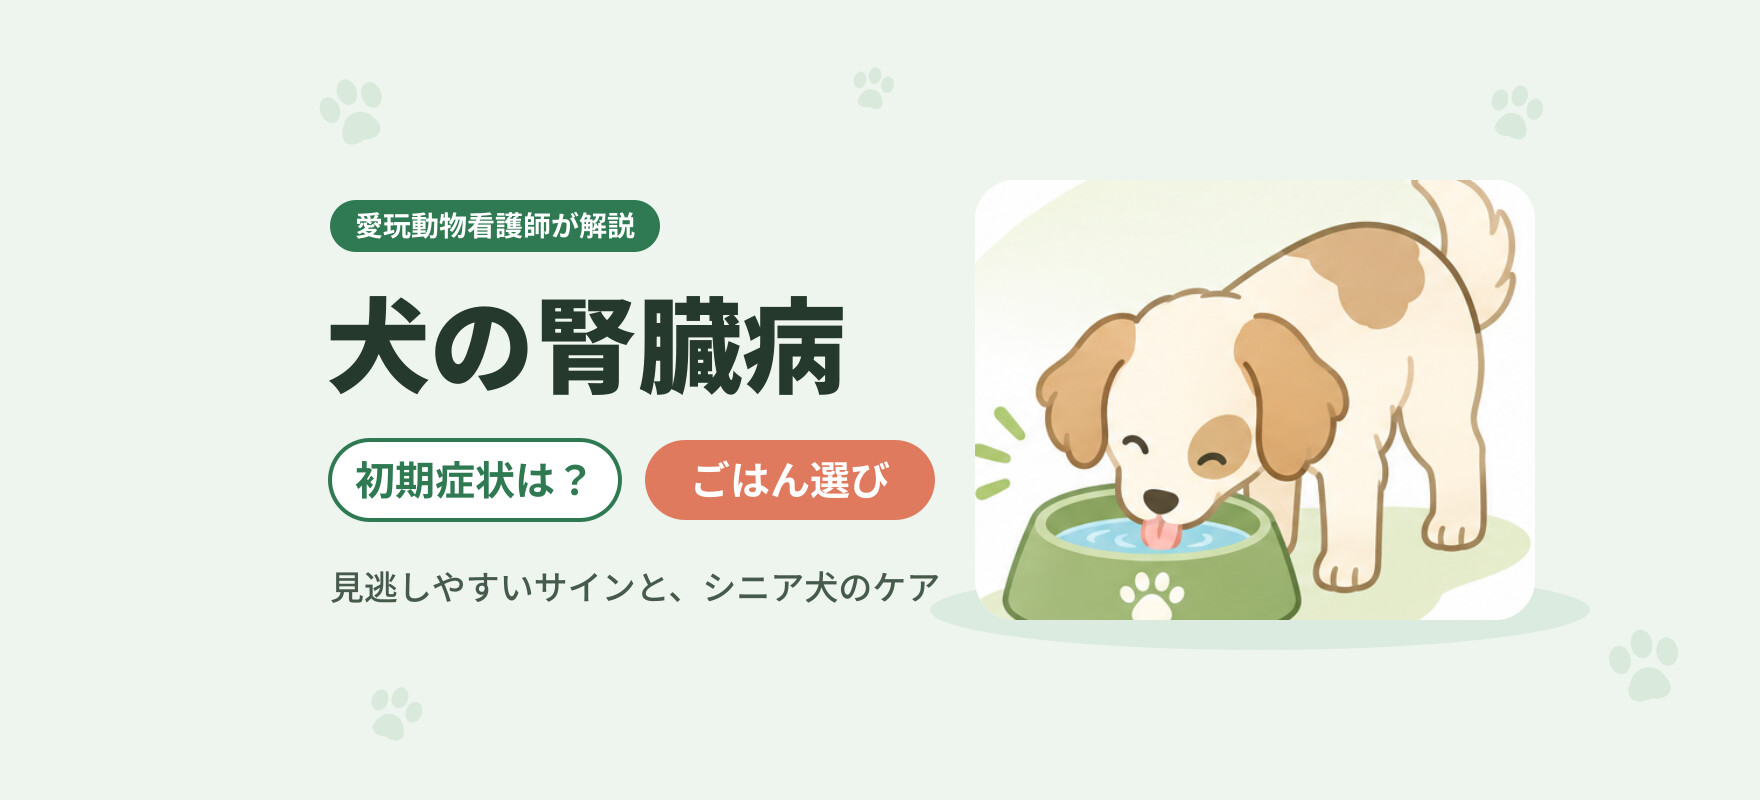
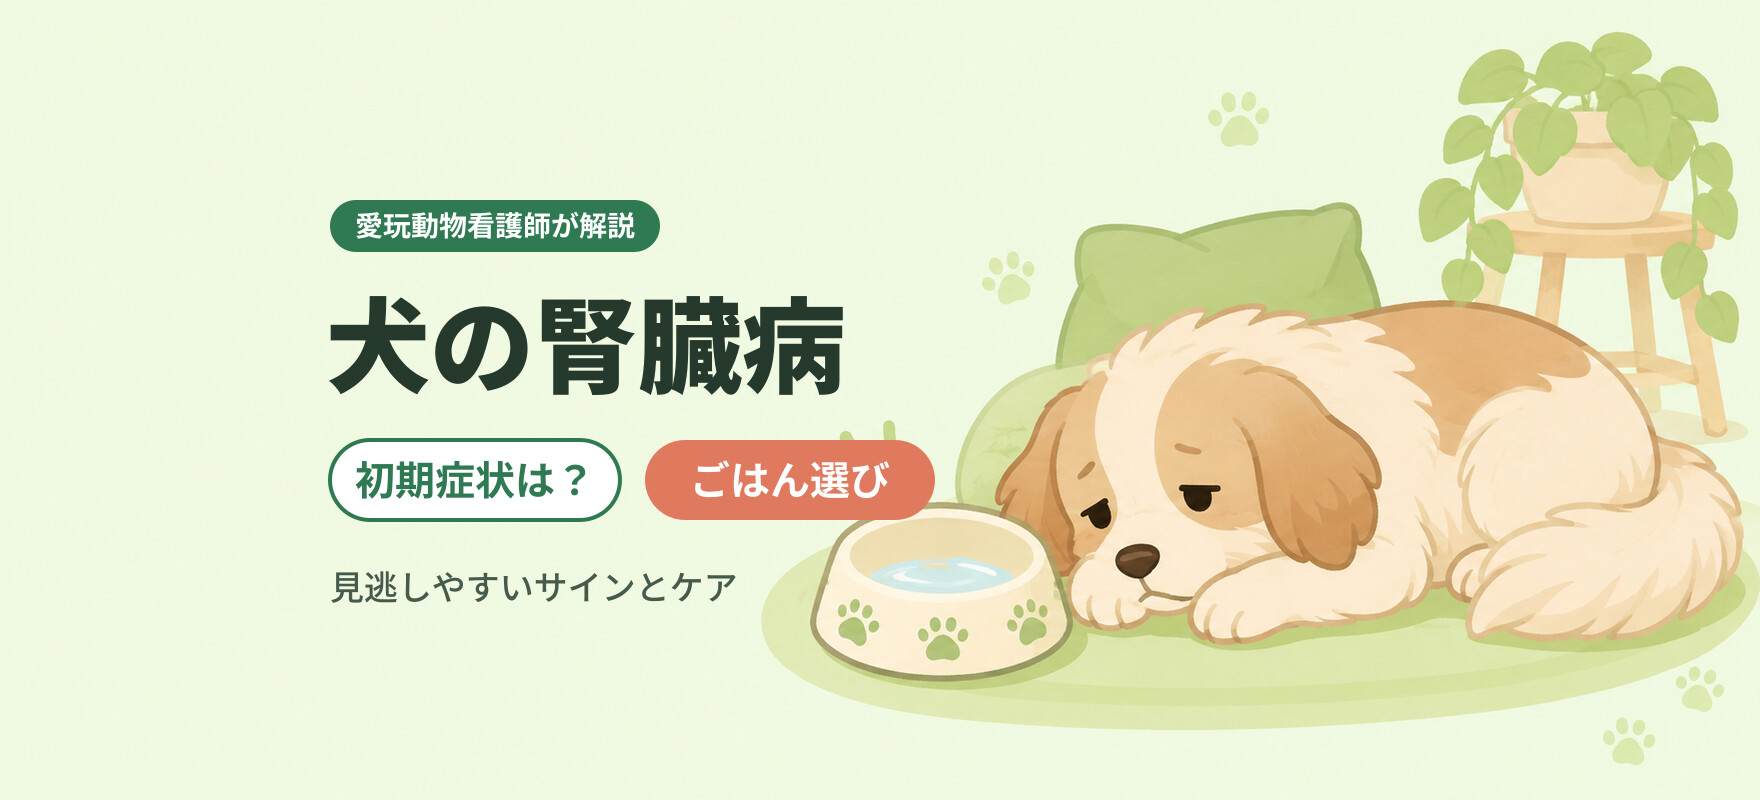
腎臓病の記事を公開、目次・固定ヘッダー・カテゴリページを追加

Changed region(s): [[0.375, 0.0312, 1.0, 0.9375], [0.6875, 0.0938, 0.7188, 0.1875], [0.9062, 0.9062, 0.9375, 0.9688]]

diff --git a/src/content/blog/dog-kidney-disease-signs.md b/src/content/blog/dog-kidney-disease-signs.md
@@ -11,7 +11,7 @@ breadcrumbTitle: "犬の腎臓病の初期症状"
 subtitle: "見逃しやすいサインと、ごはん選びの考え方。"
 image:
   src: "/images/kidney-hero.jpg"
-  alt: "水を飲んでいる犬のイラストと「犬の腎臓病 初期症状は？ ごはん選び」の文字"
+  alt: "水の器のそばで元気なく伏せている犬のイラストと「犬の腎臓病 初期症状は？ ごはん選び」の文字"
   width: 1760
   height: 800
 draft: false
